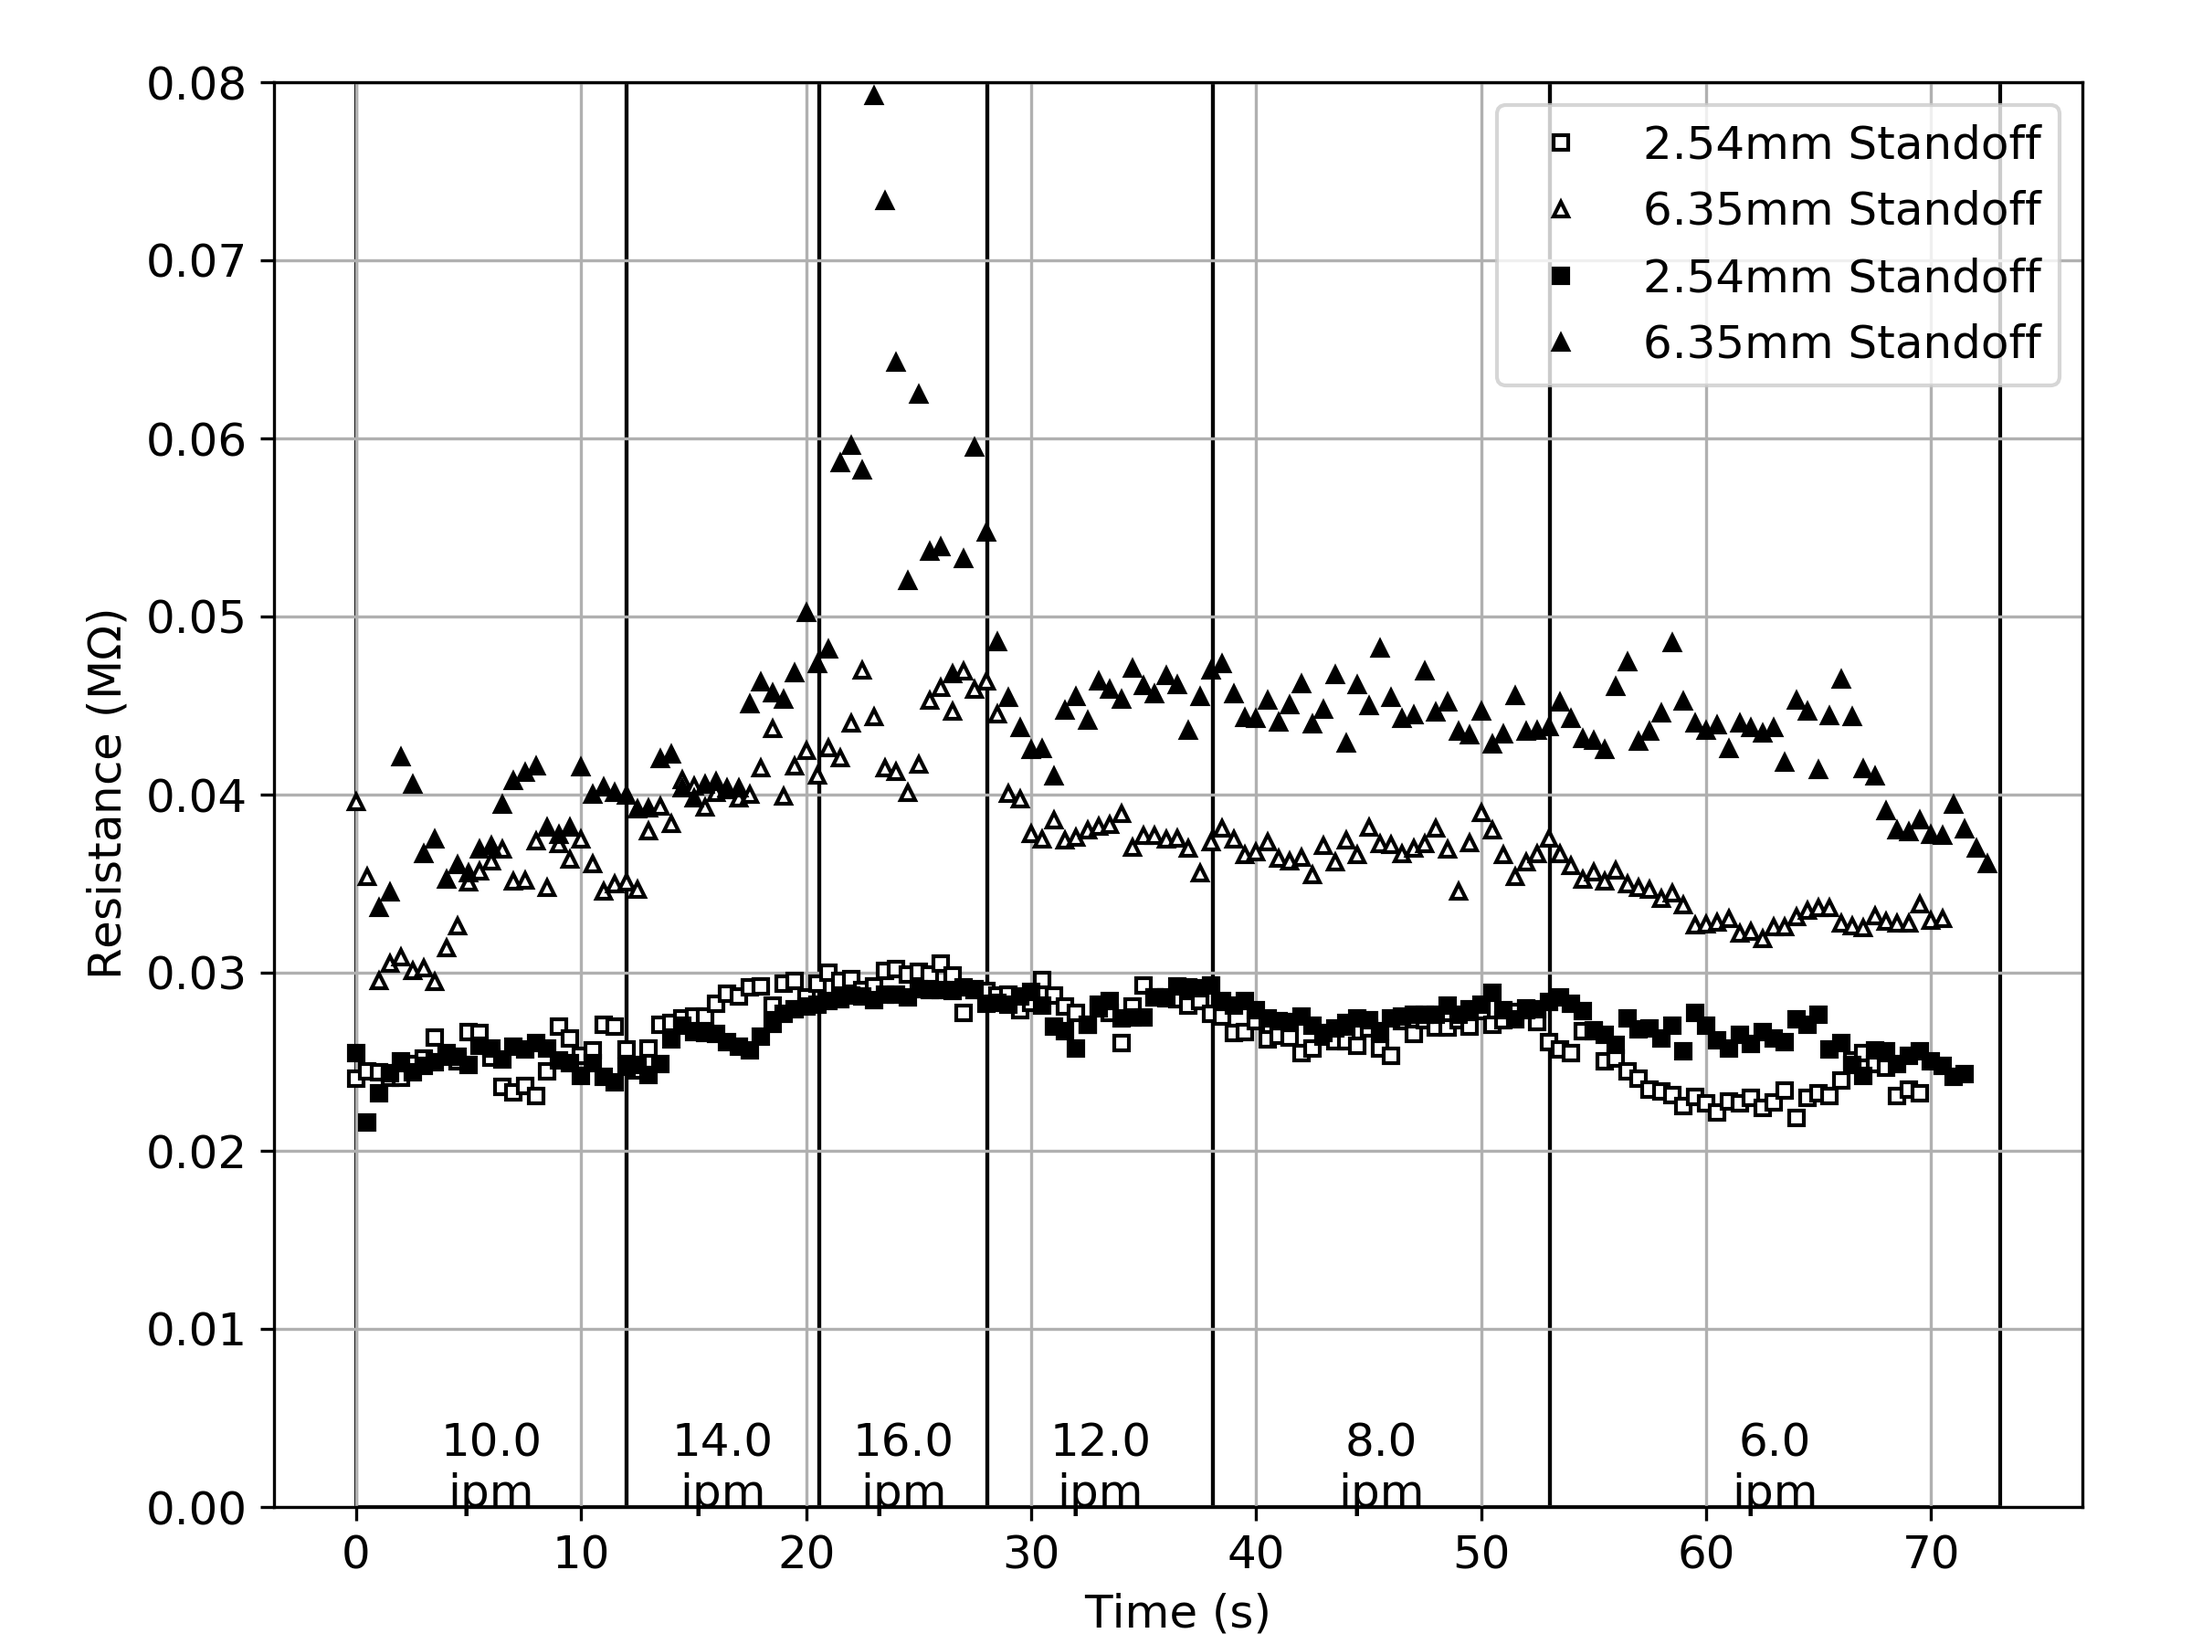
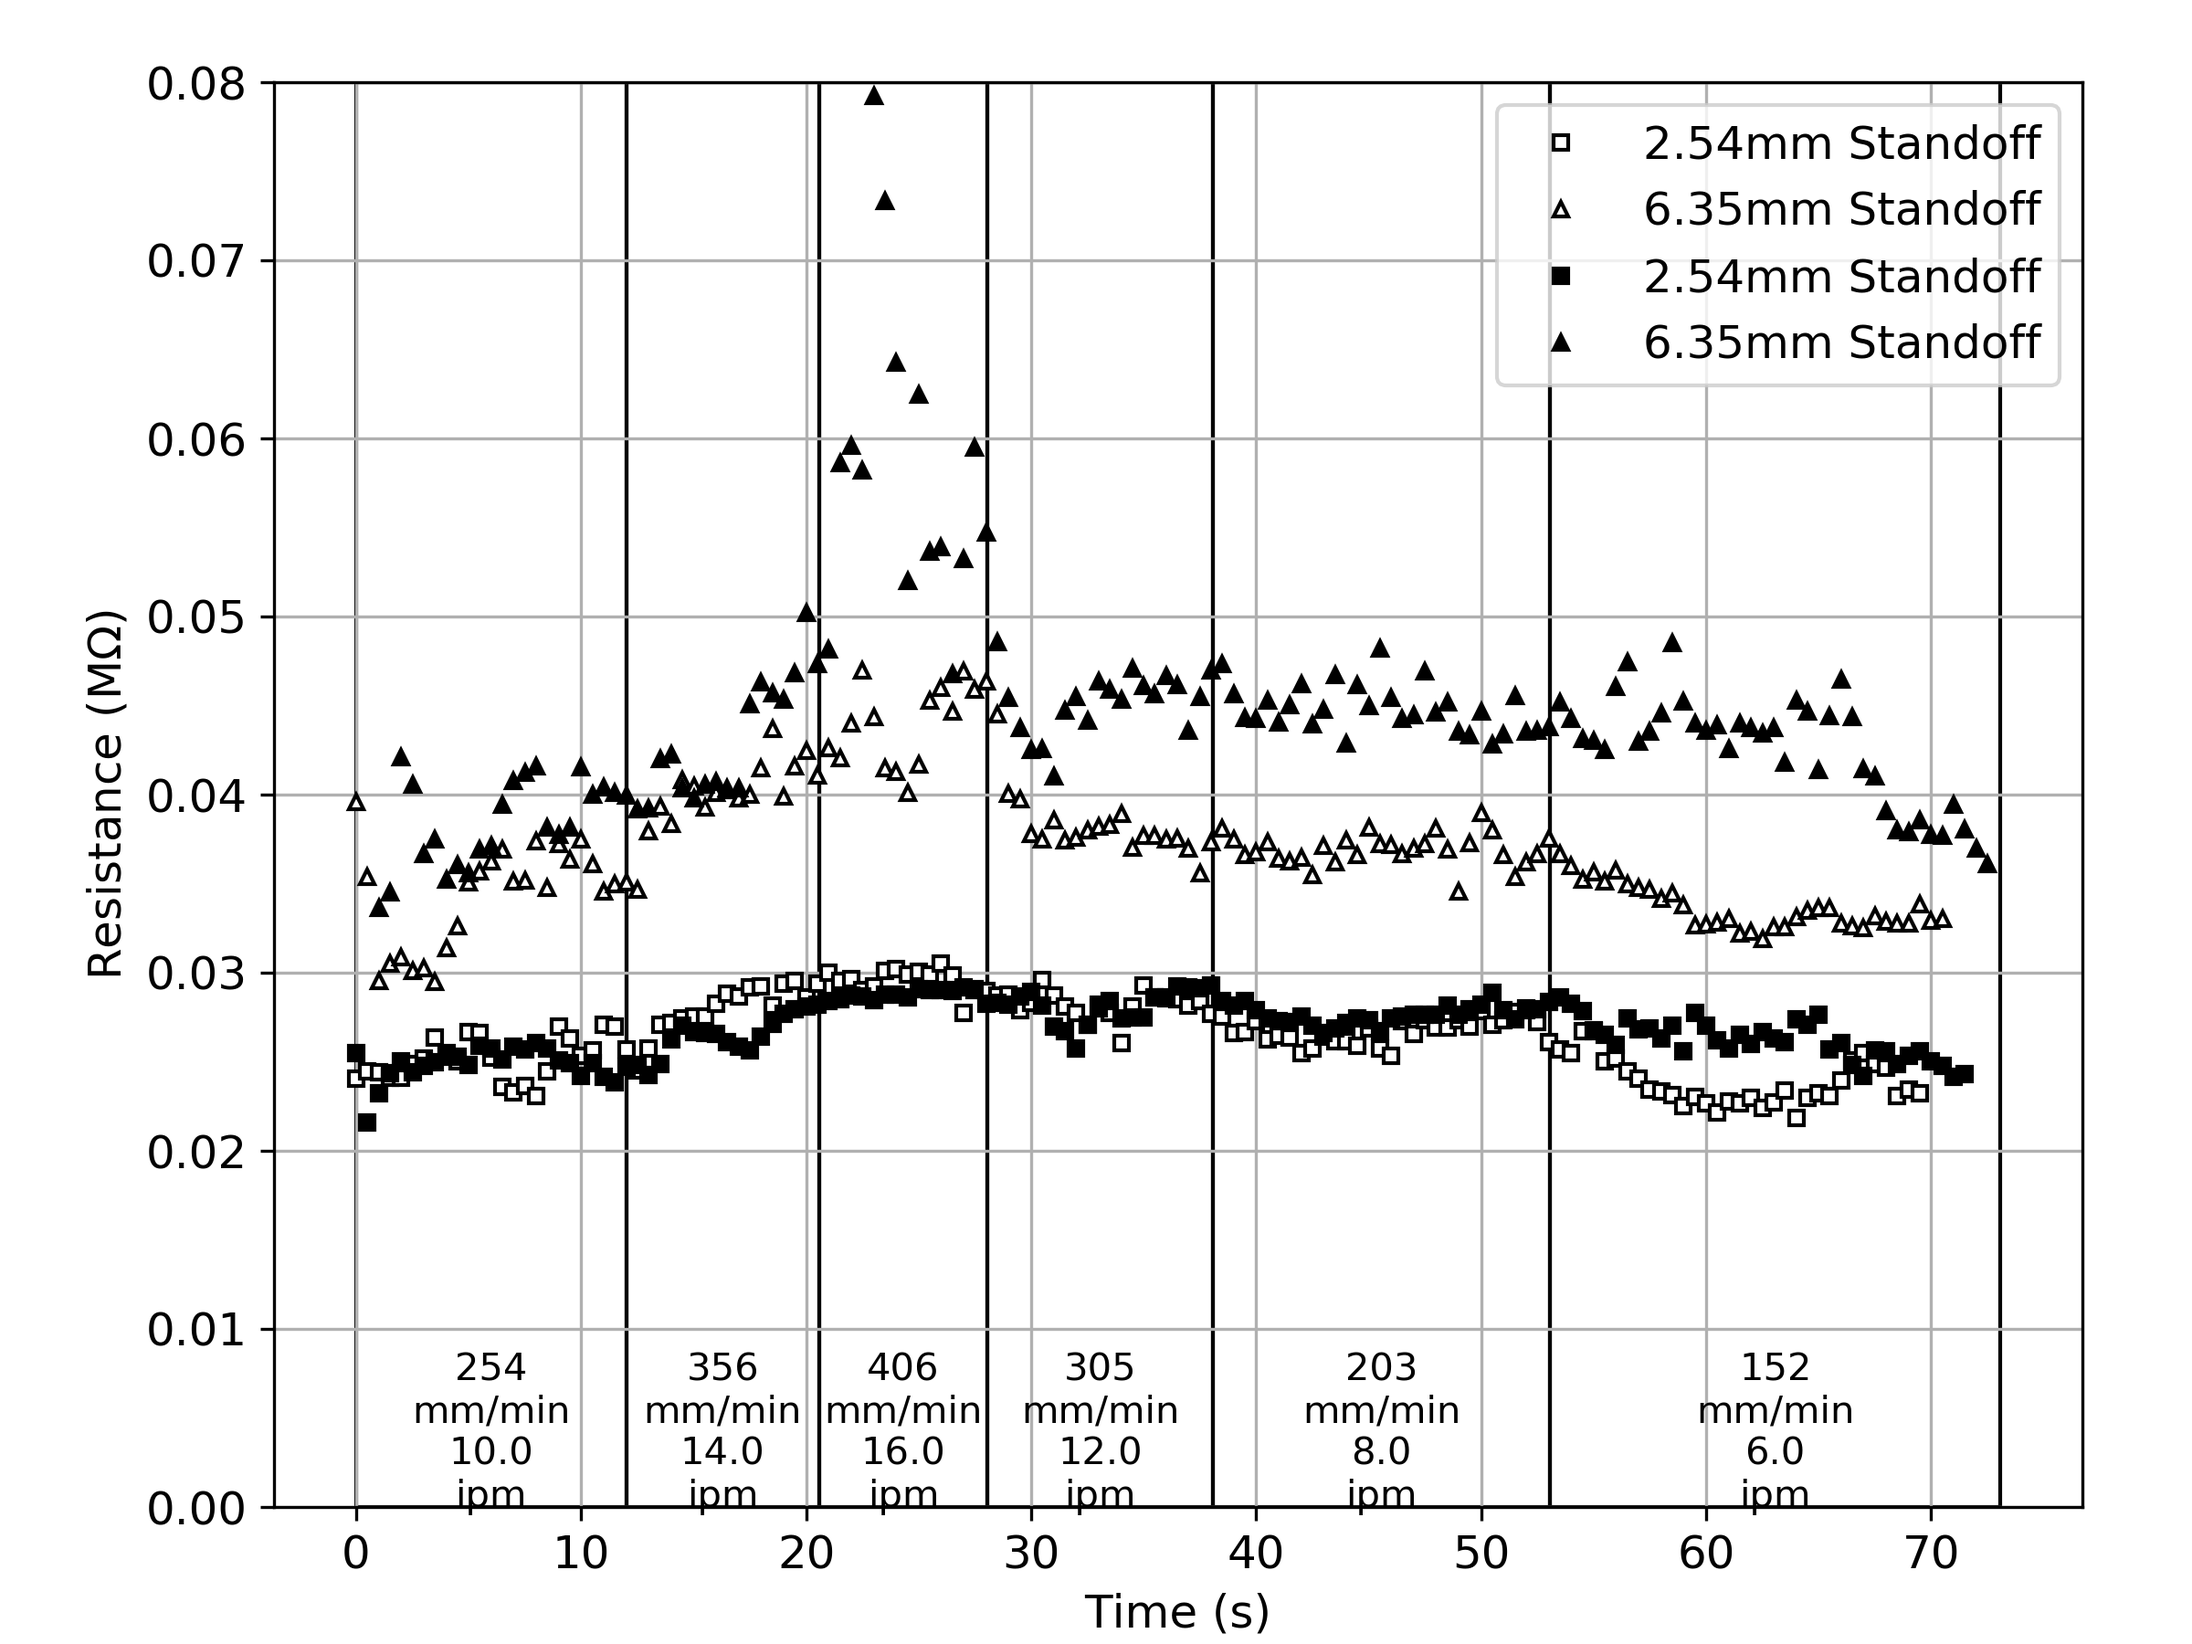
Committing old uncommitted changes

diff --git a/experiment5/scan.py b/experiment5/scan.py
@@ -1,0 +1,30 @@
+#!/usr/bin/python
+
+import os, sys, time
+
+# Quick summary of important variables
+#   now         The broken down time for the start of execution
+#   datadir     The full path to the directory where data will be contained
+#   
+
+
+# note the time of the start of execution
+now = time.localtime()
+
+# create a directory for the results
+datadir = os.path.abspath(time.strftime('%Y%m%d%H%M%S', now))
+os.mkdir(datadir)
+
+# create a summary file noting the data collection
+print("**User input to build a summary file**")
+print("  Start of test: %s"%time.asctime(now))
+
+
+# Create the readme file
+readme = os.path.join(datadir, "README.txt")
+print("  Readme file: %s"%readme)
+
+with open(readme, 'w') as ff:
+    ff.write("""README
+    
+Test began: """ + time.asctime(now))

diff --git a/experiment4/speed.py b/experiment4/speed.py
@@ -48,10 +48,10 @@ for speed,pstyle in zip(speeds_ipm,patch_styles):
 	ax1.add_patch(\
 		Rectangle( (tstart, 0.), tduration, .08, alpha=0.2, **pstyle))
 		
-	ax1.text(tstart + 0.5*tduration, 0.0, '%.1f\nipm'%speed, ha='center')
+	ax1.text(tstart + 0.5*tduration, 0.0, '%.0f\nmm/min\n%.1f\nipm'%(25.4*speed,speed), ha='center', fontsize=10)
 	ax2.add_patch(\
 		Rectangle( (tstart, 0.), tduration, .08, fc='none', ec='k'))
-	ax2.text(tstart + 0.5*tduration, 0.0, '%.1f\nipm'%speed, ha='center')
+	ax2.text(tstart + 0.5*tduration, 0.0, '%.0f\nmm/min\n%.1f\nipm'%(25.4*speed,speed), ha='center', fontsize=10)
 	tstart += tduration
 
 for thisfile,thisstyle in zip(sources,styles):

diff --git a/experiment4/height.py b/experiment4/height.py
@@ -148,7 +148,8 @@ I = np.logical_and((group==1), incl)
 ax1.plot(SO_mm[I], R_mean[I], label='0-25uA sine', **styles[1])
 I = np.logical_and((group==3), incl)
 ax1.plot(SO_mm[I], R_mean[I], label='5-15uA sine', **styles[3])
-
+I = group==2
+ax1.plot(SO_mm[I], R_mean[I], label='0-10uA sine', **styles[2])
 
 #ax2.errorbar(SO_in, R_mean, xerr=np.abs(rise_in), yerr=2*np.array(R_std), fmt='ko', capsize=2, ecolor='k')
 

diff --git a/experiment4/incline.py b/experiment4/incline.py
@@ -27,7 +27,7 @@ R_mean = []
 R_std = []
 SO_in = []
 
-ax1, _ax1 = lplot.init_xxyy('Standoff (mm)', 'Resistance (in)', x2label='Standoff (in)')
+ax1, _ax1 = lplot.init_xxyy('Standoff (mm)', 'Resistance (M$\Omega$)', x2label='Standoff (in)')
 
 for thisfile,thisstyle in zip(sources, styles):
 	
